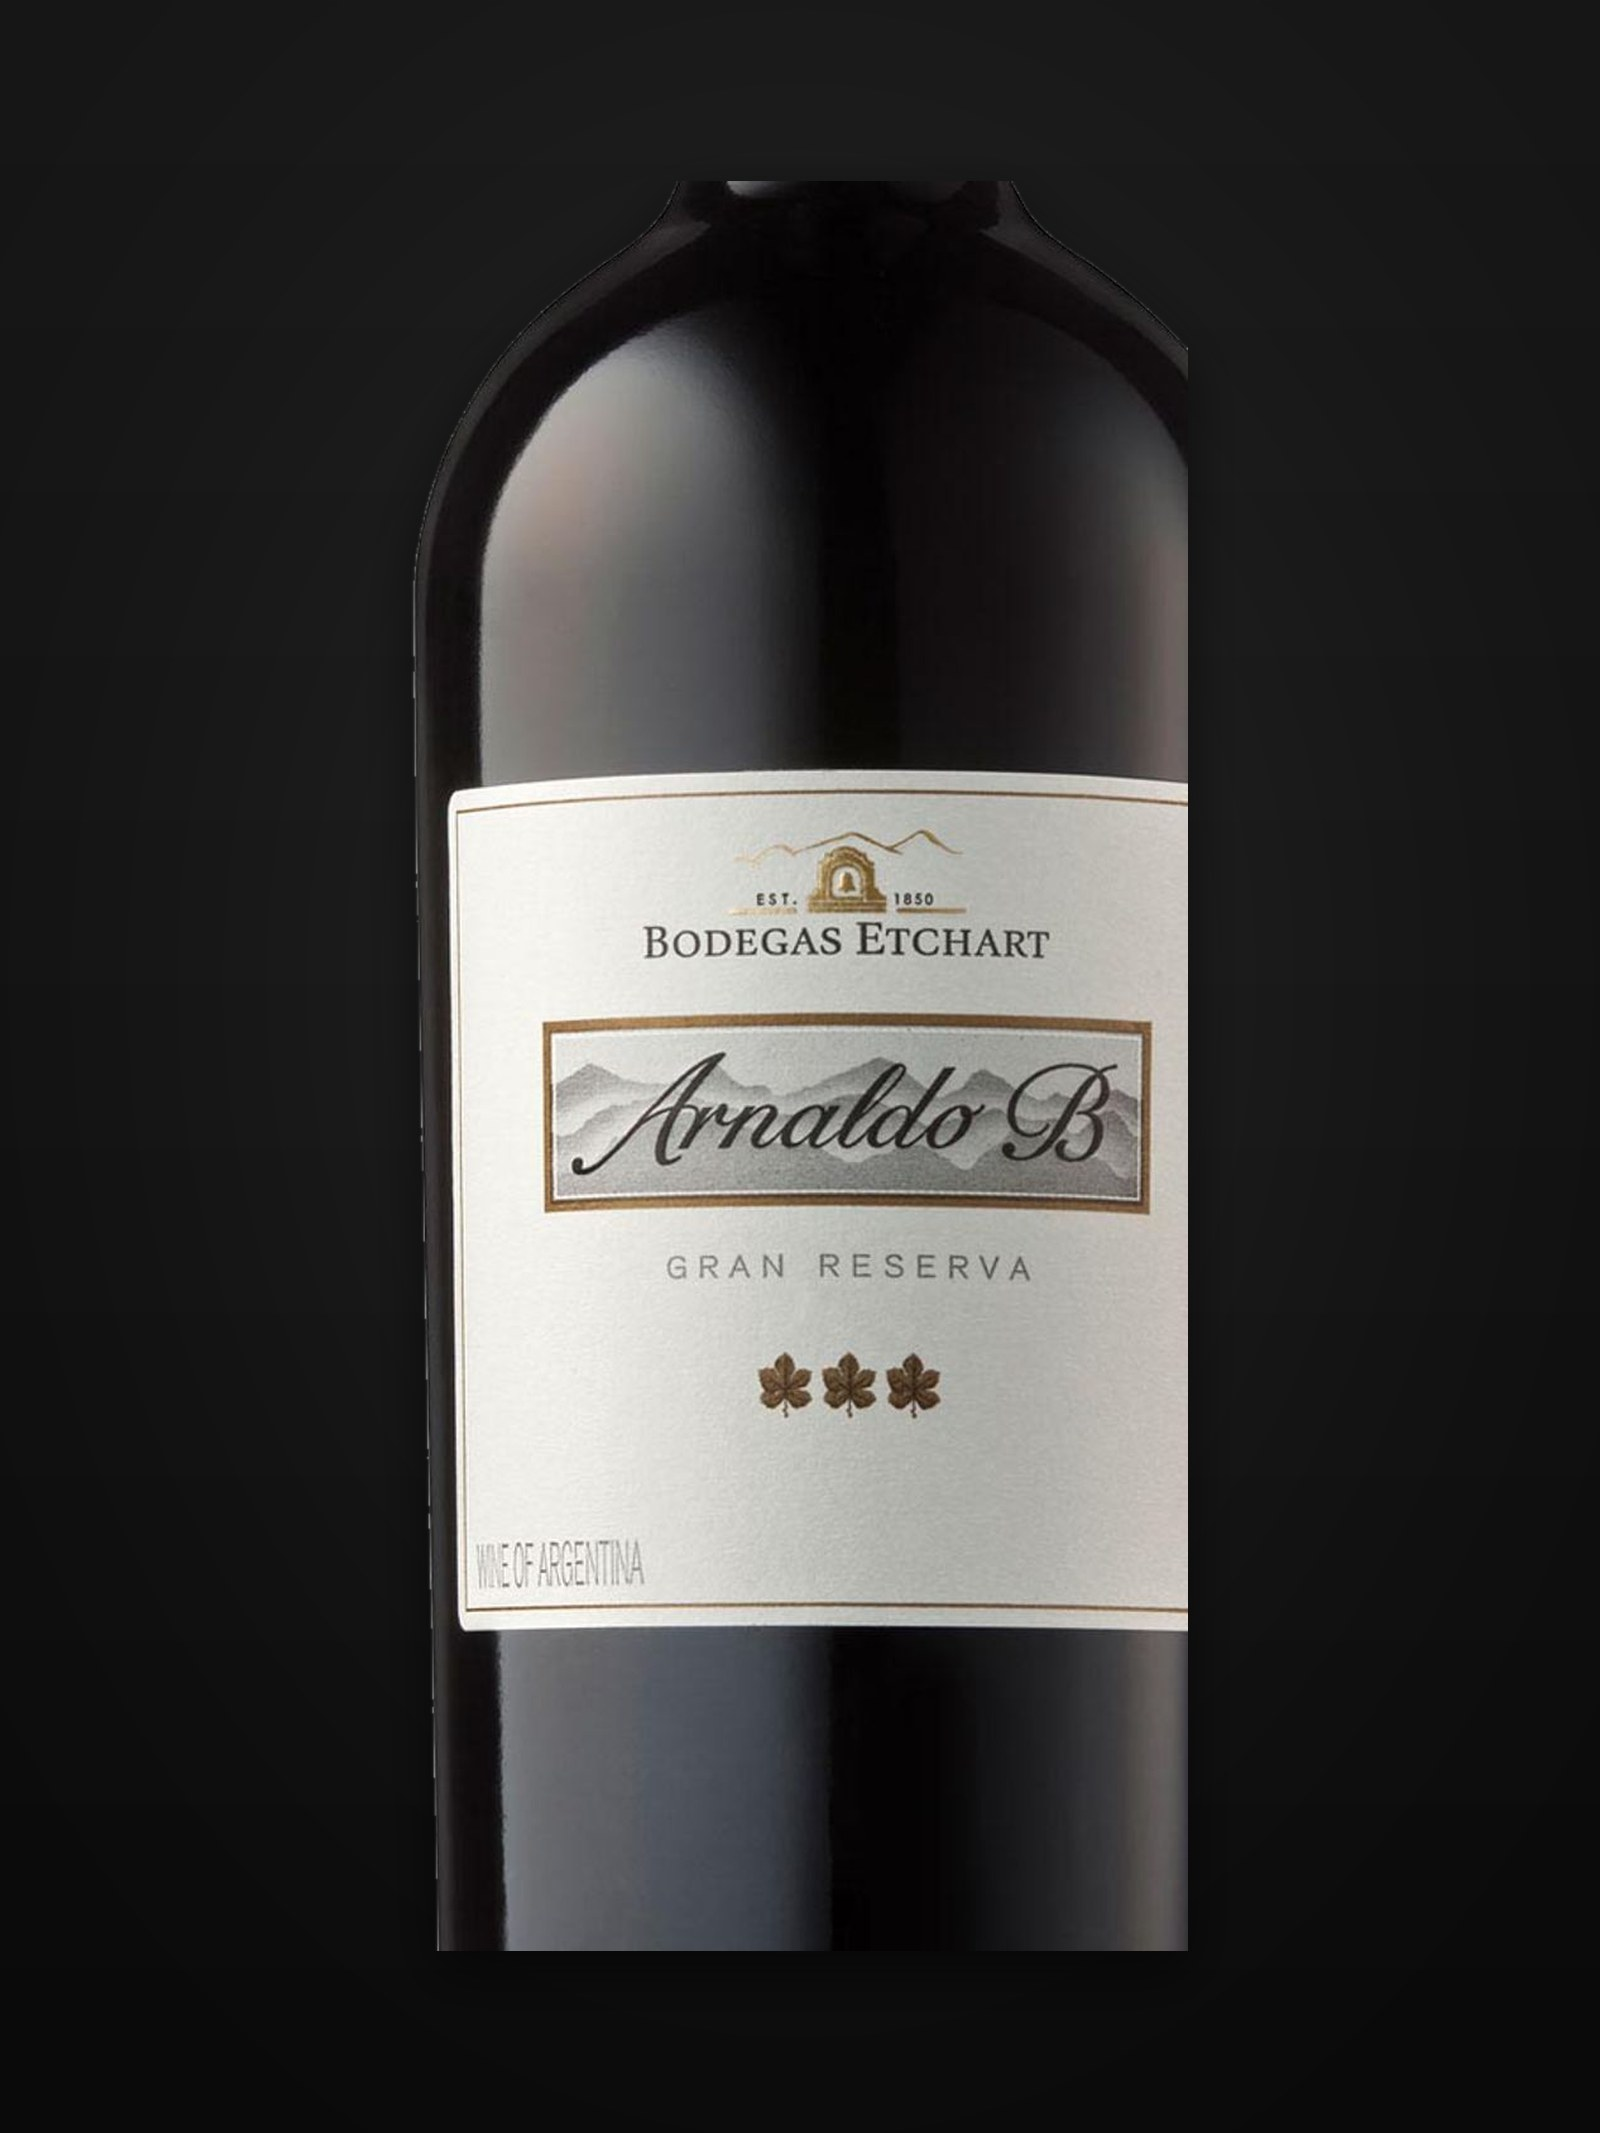
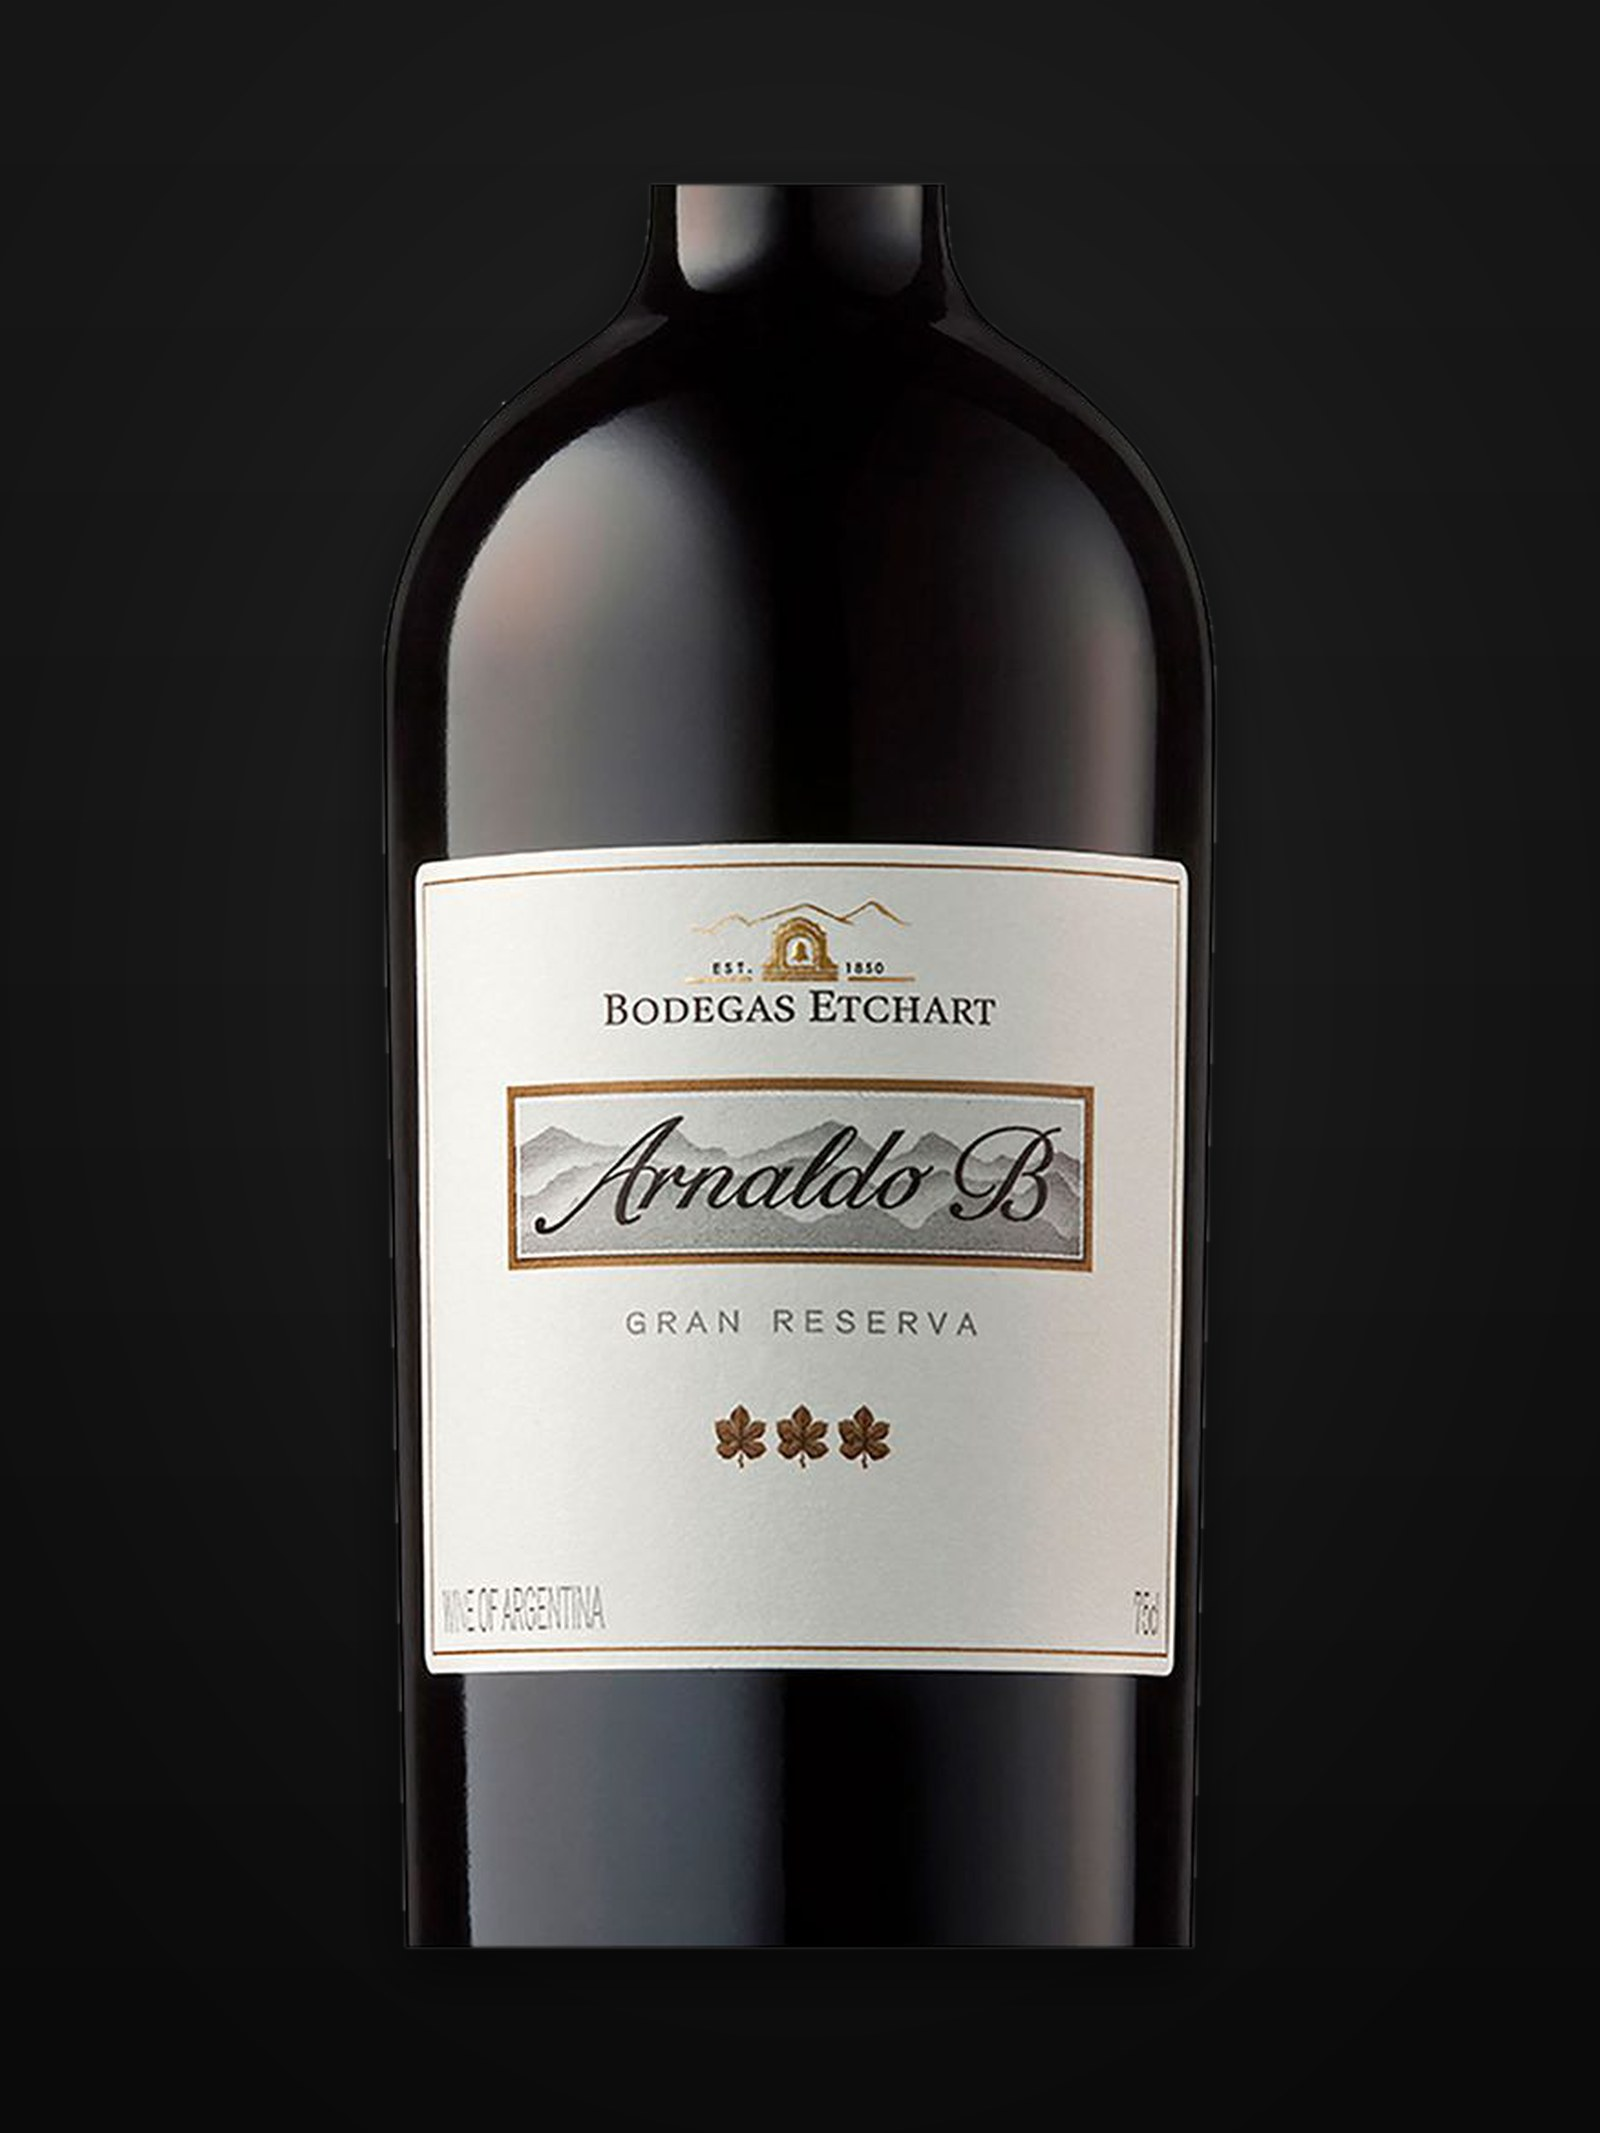
fix: foto propia para Etchart Cosecha 92
Etchart Cosecha 92 y Arnaldo B 3 Litros compartían foto y aparecían como
las dos primeras piezas de la tienda, una al lado de la otra: se veía como
un error de la página. Ahora Etchart usa su propia botella.

De paso el Arnaldo B pasa a la foto de Carrefour, que es la más completa:
todos los retailers lo publican ya recortado (sin cuello) y con un panel
"GRAN RESERVA" al lado, así que se recorta el panel.

Changed region(s): [[0.2188, 0.0619, 0.7812, 0.9283], [0.5312, 0.0619, 0.5938, 0.1238], [0.5938, 0.1238, 0.625, 0.1547]]

diff --git a/prisma/seed.ts b/prisma/seed.ts
@@ -97,7 +97,7 @@ const IMG_BY_SKU: Record<string, string> = {
   "4393": "terr-chacayes",
   "4394": "terr-altamira",
   "51913": "arnaldo-b",
-  "51914": "arnaldo-b",
+  "51914": "etchart",
 };
 
 function imageFor(sku: string) {
